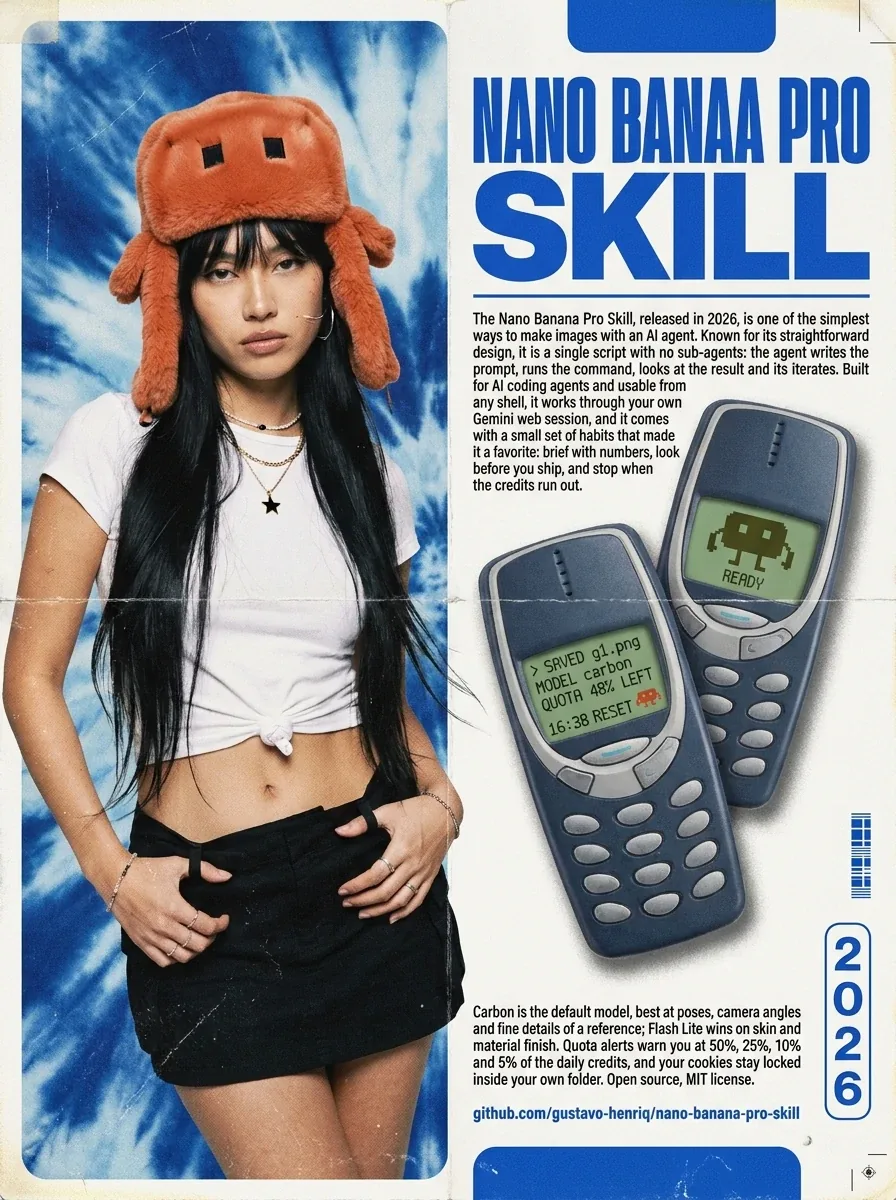
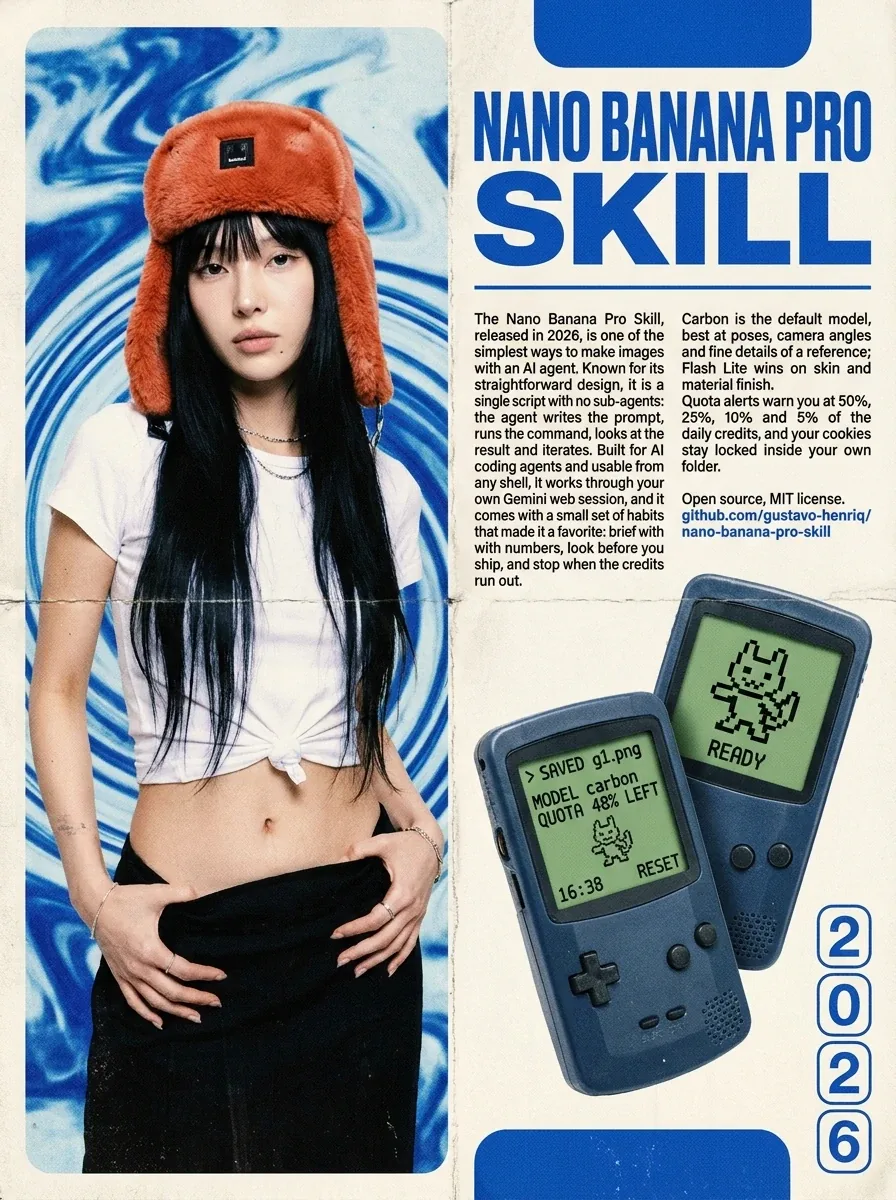
Use corrected retro poster and drop the selfie
Replace the retro poster that had a typo in the title with the corrected
version, and remove the selfie from the README and from examples/hero.

diff --git a/README.md b/README.md
@@ -3,11 +3,8 @@
 Generate and edit images with **Nano Banana Pro** from your AI coding agent, using your own Gemini web session. The agent acts as the art director: it writes the prompt, runs one script, **looks at the result** and iterates. Built and tested with Claude Code; the script is a plain command-line tool, so any agent that can run a shell command can use it (see [Works with other agents](#works-with-other-agents)).
 
 <p align="center">
-  <img src="examples/hero/poster-retro-skill.webp" width="46%" alt="Retro printed poster for the Nano Banana Pro skill">
-  <img src="examples/hero/poster-crystal-svgs.webp" width="46%" alt="A hand holding a glowing crystal Clawd with the line SVGs are overrated">
-</p>
-<p align="center">
-  <img src="examples/hero/selfie-clawd-hat.webp" width="70%" alt="A woman in a Clawd-style orange fur hat taking a selfie">
+  <img src="examples/hero/poster-retro-skill.webp" width="48%" alt="Retro printed poster for the Nano Banana Pro skill">
+  <img src="examples/hero/poster-crystal-svgs.webp" width="48%" alt="A hand holding a glowing crystal Clawd with the line SVGs are overrated">
 </p>
 
 > **Heads up.** This drives the **unofficial** Gemini web interface through the [`gemini-webapi`](https://github.com/HanaokaYuzu/Gemini-API) library, with your own logged-in session. It is not the official API, it can break when Google changes the site, and it spends your plan's daily credits. Use it only with your own account and within Google's terms. This project is not affiliated with Google or Anthropic.
